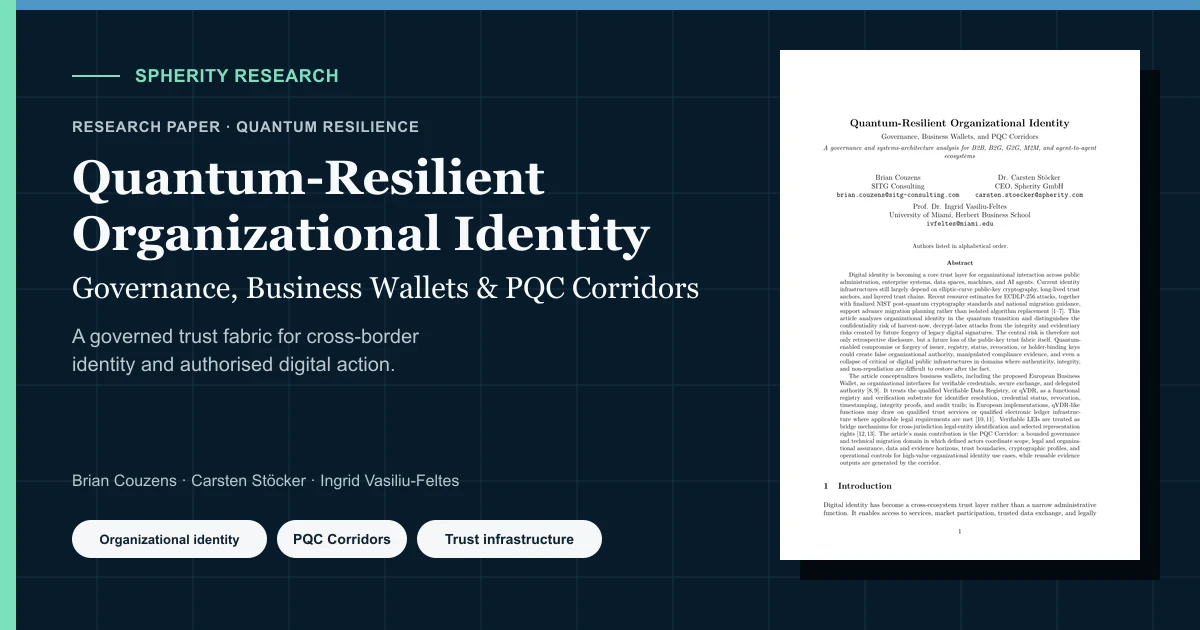
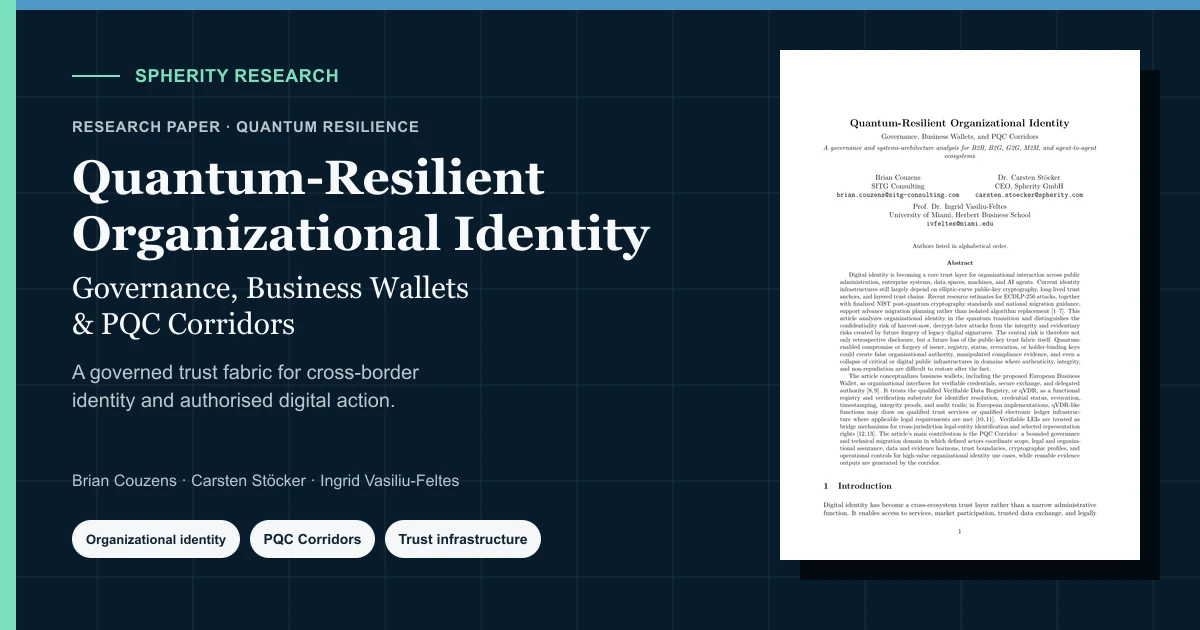
fix: enforce social-card safe areas

Changed region(s): [[0.0617, 0.4825, 0.37, 0.6635], [0.0617, 0.8143, 0.5242, 0.9048], [0.4008, 0.4222, 0.5858, 0.4825]]

diff --git a/README.md b/README.md
@@ -15,7 +15,10 @@ metadata from drifting apart.
 
 Social-card art direction is recorded in `docs/_data/social_cards.yml` and
 rendered by `scripts/generate-social-cards.mjs`. The shared 1200 × 630 research
-grid style is regenerated before local checks and deployment. The Gartner-
+grid style is regenerated before local checks and deployment. A mandatory
+preflight measures every title, subtitle, description, byline, and topic row
+against the left-column safe area; generation and deployment fail if text
+enters the 60-pixel gutter before the document visual. The Gartner-
 approved strategy card is a checksum-protected exception and must not be
 changed without a new approval.
 
@@ -48,8 +51,9 @@ evidence and editorial policy.
    with its matching entry in `toc_items`.
 5. Add a `research-grid-v1` entry to `docs/_data/social_cards.yml`, using short,
    pre-wrapped title and description lines plus a suitable paper cover or
-   code-native subject visual. Run `pnpm run social-cards`; it exports the WebP
-   card at 1200 × 630 pixels.
+   code-native subject visual. Run `pnpm run social-cards`; it measures the
+   complete left column, rejects overflow into the document gutter, and exports
+   the WebP card at 1200 × 630 pixels.
 6. Add one entry to `docs/_data/publications.yml`. Copy a nearby entry and
    update its title, description, topics, image, dates, search terms, and links.
 7. Add a homepage FAQ entry only when the paper answers a distinct research
@@ -205,6 +209,8 @@ continues through `sitemap.xml`, internal links, and Search Console.
 - Open Graph and X previews use the intended image.
 - The publication page and homepage catalog use the same generated social card;
   approved exceptions remain checksum-identical.
+- Every social-card text line and topic row clears the document visual by the
+  enforced 60-pixel safety gutter; no text is clipped or hidden behind imagery.
 - Version 2 search research records the Google Trends filters, findings,
   authority terms, discovery terms, and resulting editorial decisions.
 - Every author has an `identity_reviewed` profile in `docs/_data/authors.yml`;

diff --git a/AEO-GEO-IMPLEMENTATION.md b/AEO-GEO-IMPLEMENTATION.md
@@ -23,7 +23,7 @@ data.
 | Author identity | Complete for verified profiles | Enforce | Central `docs/_data/authors.yml` registry supplies author `url`, LinkedIn and ORCID identities; new template publications require reviewed profiles and valid ORCID check digits where supplied |
 | Search-language research | Previously informal | Add | Version 2 template records Google Trends comparisons, authority terms, discovery terms, audience questions, evidence notes, and editorial decisions |
 | Contributor safeguards | Complete | Enforce | Source, template, catalog, author, schema, citation, FAQ, heading, image, PDF, sitemap, and search-research checks |
-| Social-preview consistency | Mixed legacy designs | Enforce | Shared research-grid generator, 1200 × 630 output, catalog/page alignment, size checks, and a checksum-protected Gartner-approved exception |
+| Social-preview consistency | Mixed legacy designs | Enforce | Shared research-grid generator, 1200 × 630 output, measured left-column safe-area preflight, a 60-pixel document gutter, catalog/page alignment, size checks, and a checksum-protected Gartner-approved exception |
 | Topical discovery for DPP/DBP, data spaces, Trusted AI, resilience, and identity | Complete | Enforce | Homepage filters, research-scope sections, FAQ answers, publication relationships, catalog metadata, and authority keywords provide evidence-backed discovery without thin doorway pages |
 | “Market leader” and similar superlatives | Unsupported | Defer | Require independent, citable evidence and author approval |
 | Training-crawler permissions | Governance decision | Keep | No change without explicit approval |
